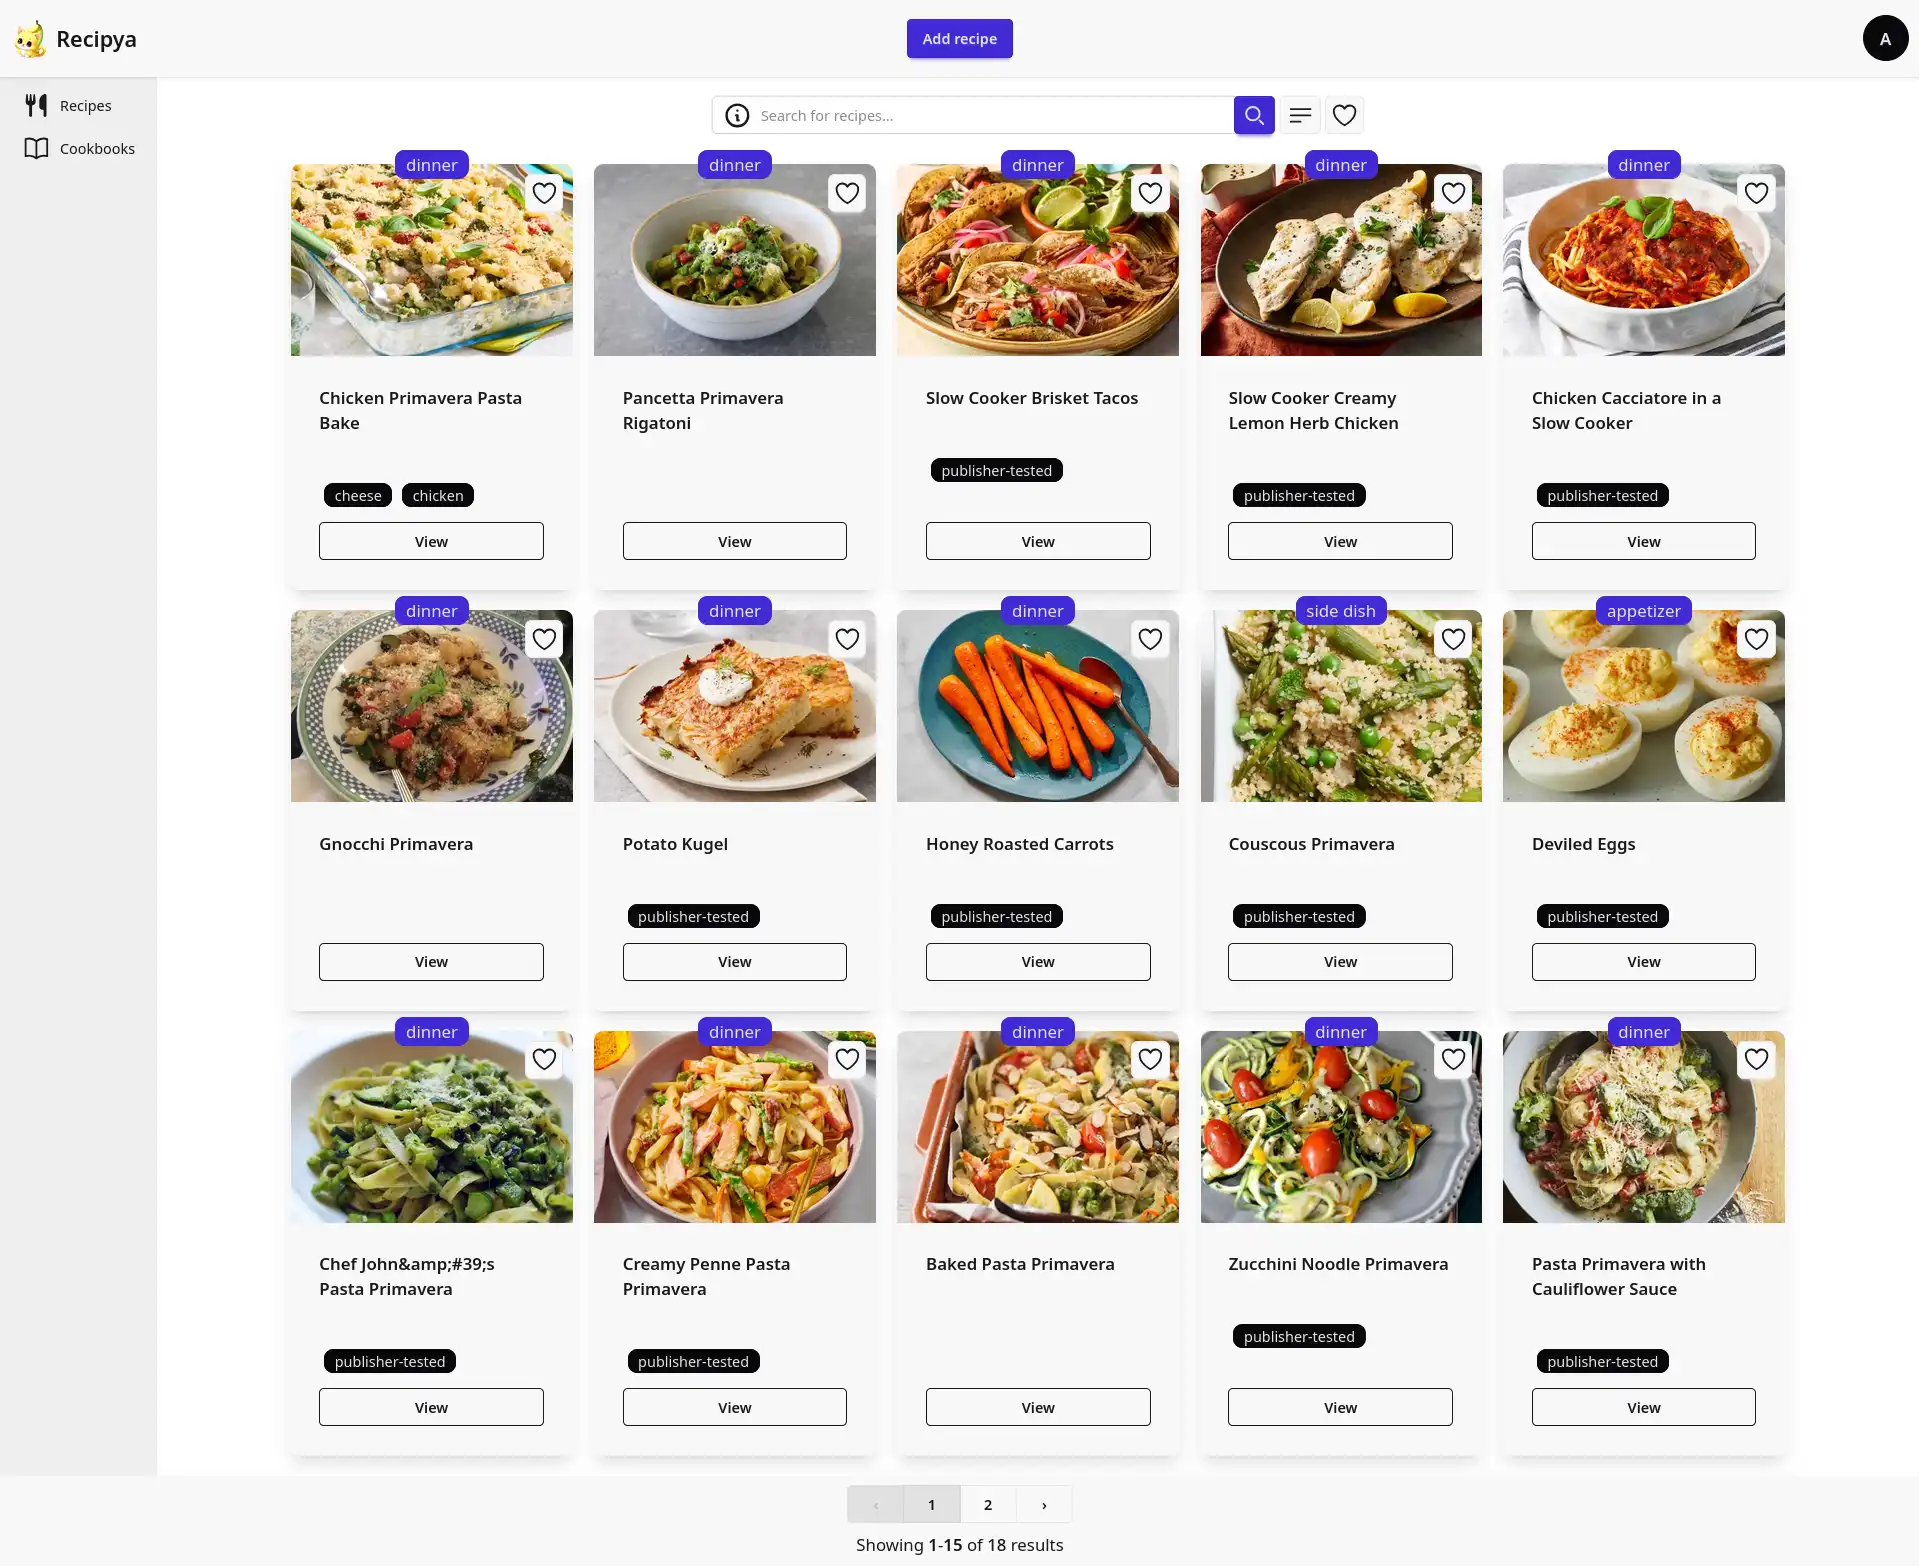
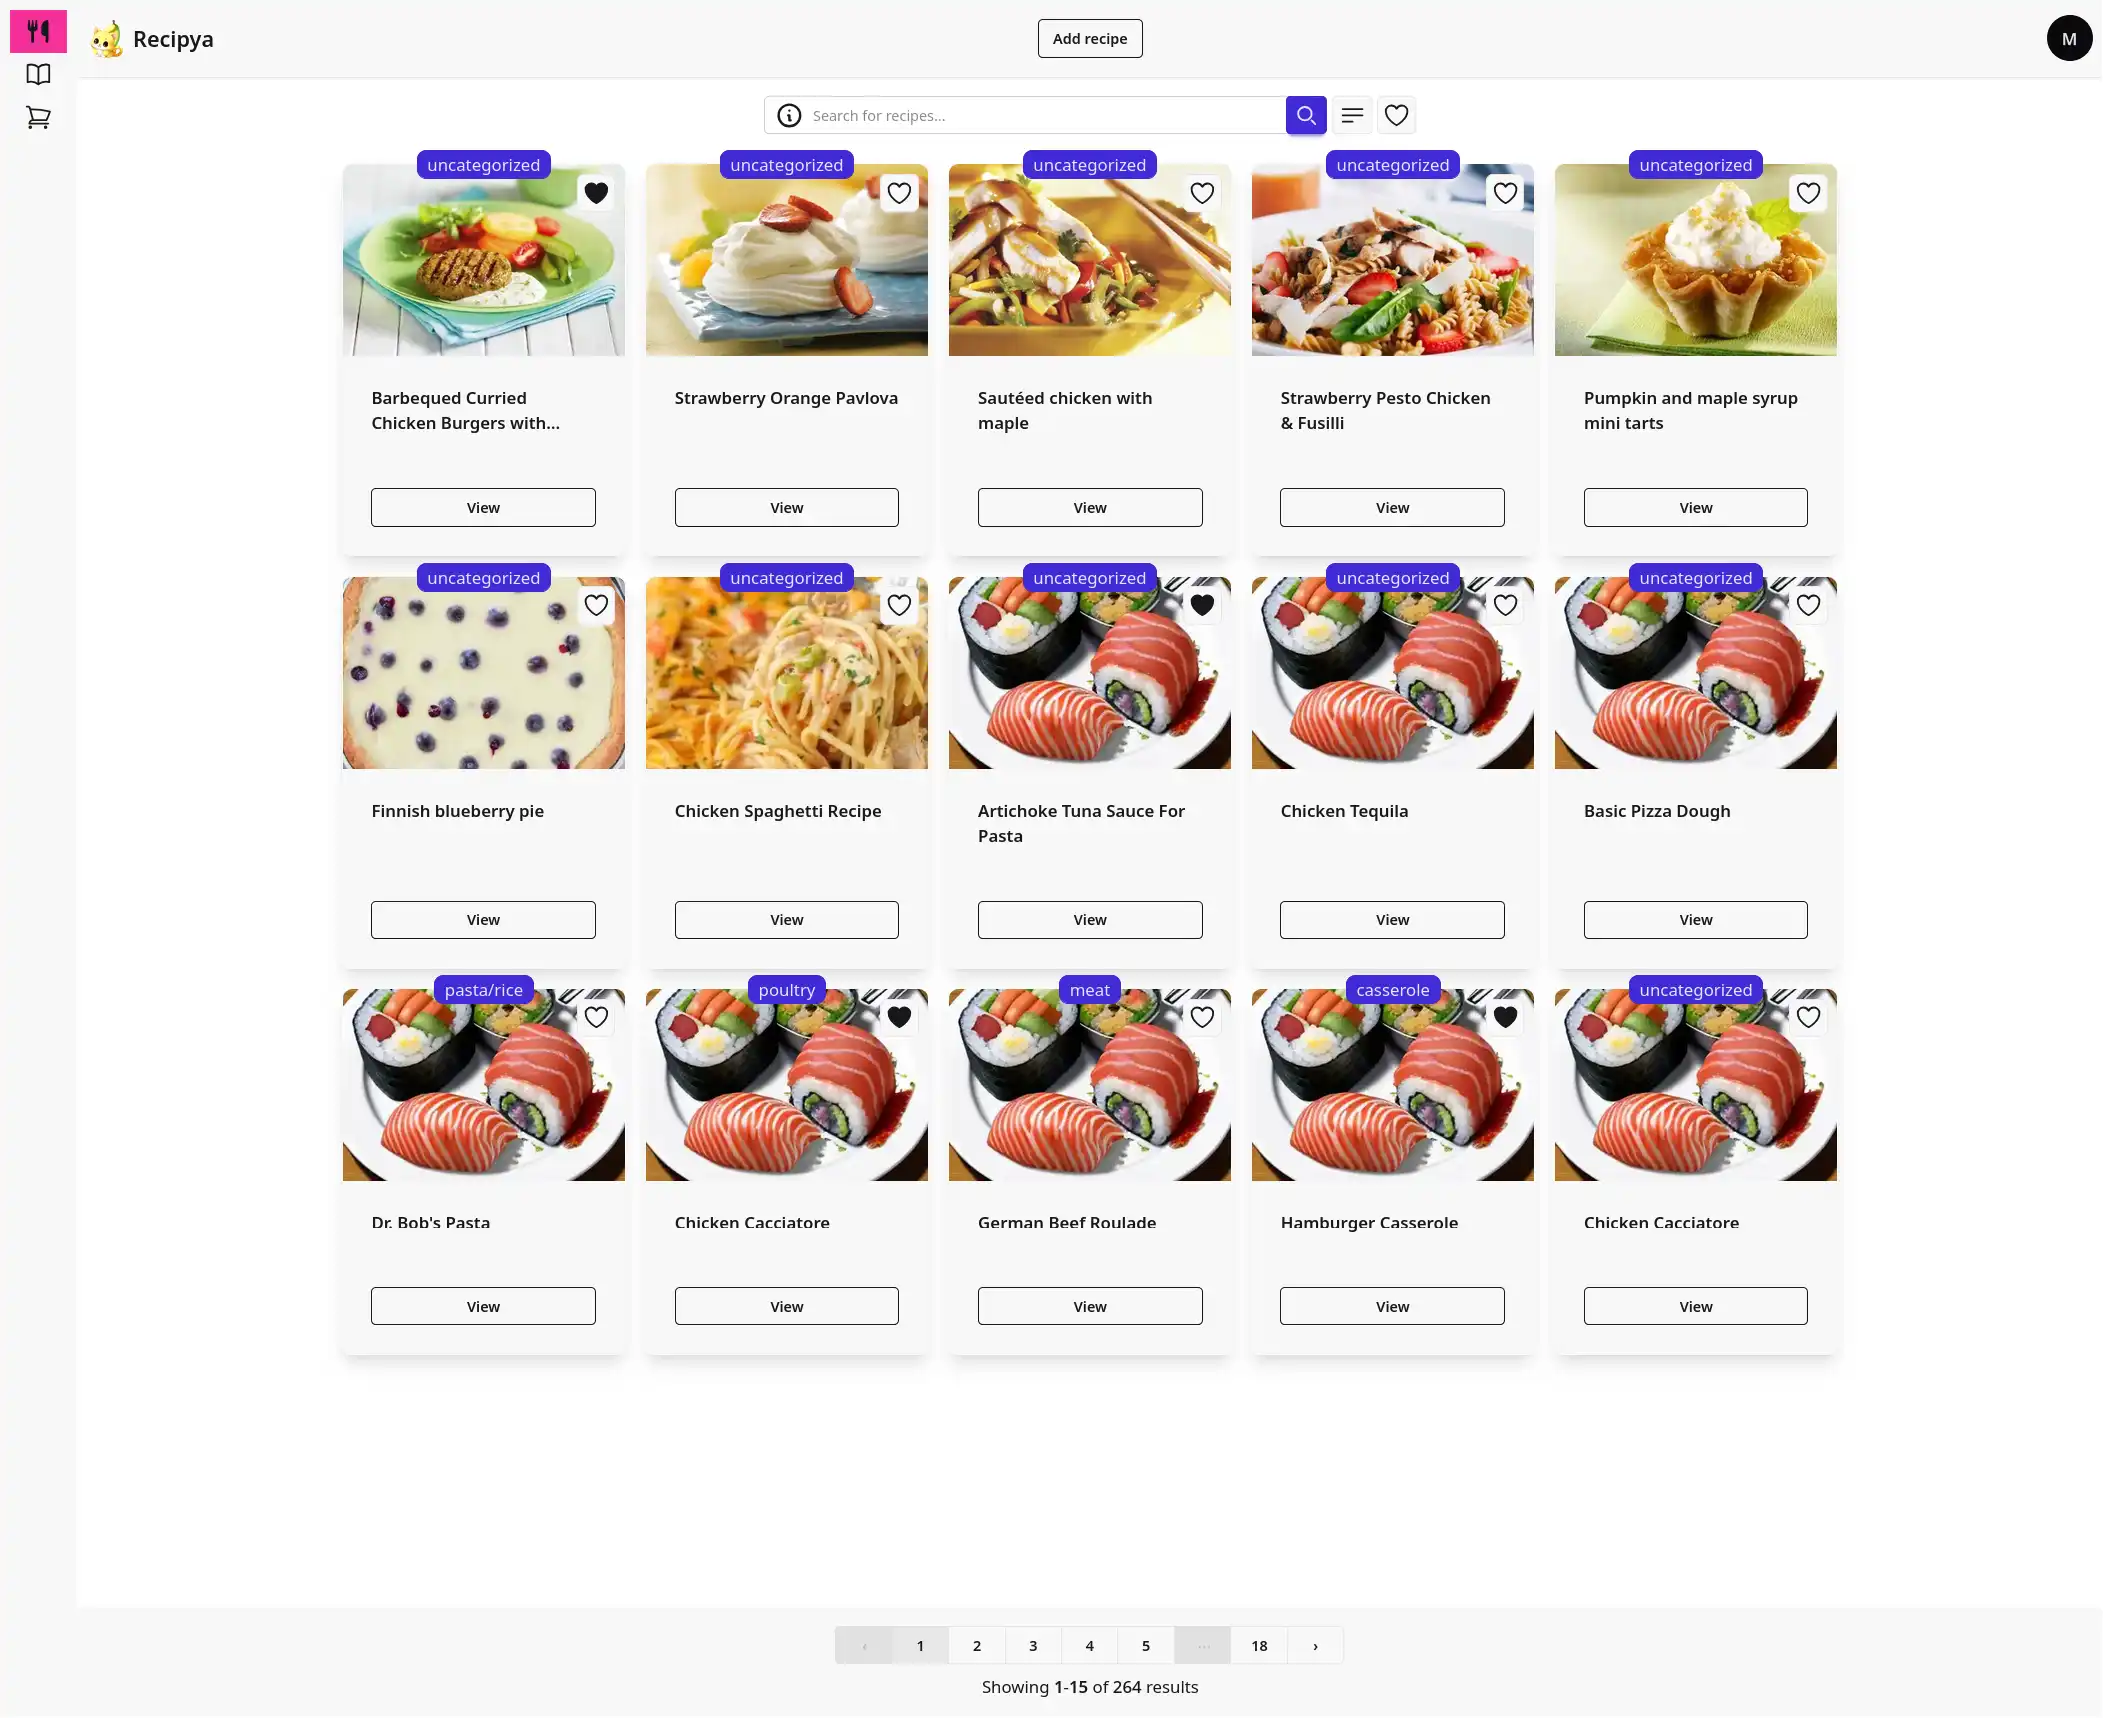
Add website scraping draft to README

diff --git a/README.md b/README.md
@@ -1,49 +1,52 @@
-<div align="center">
+<h1 align="center">
+  <br>
+      Recipya Rust
+  <br>
+</h1>
 
-# Recipya Rust &emsp;
+<h4 align="center">A clean, simple and powerful recipe manager your whole family will enjoy.</h4>
 
-**A clean, simple and powerful recipe manager your whole family will enjoy.**
+<p align="center">
+    <a href="https://github.com/reaper47/recipya-rs/releases/latest" target="_blank" rel="noopener noreferrer">
+        <img src="https://img.shields.io/github/v/release/reaper47/recipya-rs?style=flat&sort=semver">
+    </a>
+    <a href="https://github.com/reaper47/recipya-rs/actions/new" rel="noopener noreferrer">
+        <img src="https://img.shields.io/github/actions/workflow/status/serde-rs/serde/ci.yml?branch=master">
+    </a>
+    <a href="https://github.com/reaper47/recipya-rs/issues" rel="noopener noreferrer">
+        <img src="https://img.shields.io/badge/contributions-welcome-brightgreen.svg?style=flat" >
+    </a>
+</p>
 
-[![Demo][demo-shield]][demo-url]
-[![Documentation][docs-shield]][docs-url]
-[![Matrix][matrix-shield]][matrix-url]
-<br>
-[![][github-release-shield]][github-release-link]
-[![build-status-shield]][build-status-url]
-[![contributions-shield]][contributions-url]
-
-[build-status-shield]: https://img.shields.io/github/actions/workflow/status/serde-rs/serde/ci.yml?branch=master
-
-[build-status-url]: https://github.com/reaper47/recipya-rs/actions/new
-
-[contributions-shield]: https://img.shields.io/badge/contributions-welcome-brightgreen.svg?style=flat
-
-[contributions-url]: https://github.com/reaper47/recipya-rs/issues
-
-[demo-shield]: https://img.shields.io/badge/demo-996300?style=flat
-
-[demo-url]: https://recipes.musicavis.ca
-
-[docs-shield]: https://img.shields.io/badge/documentation-5d782e?style=flat
-
-[docs-url]: https://recipes.musicavis.ca/guide/docs/
-
-[matrix-shield]: https://img.shields.io/badge/Matrix-000000?style=flat&logo=matrix&logoColor=white
-
-[matrix-url]: https://app.element.io/#/room/%23comfyui_space%3Amatrix.org
-
-[github-release-shield]: https://img.shields.io/github/v/release/reaper47/recipya-rs?style=flat&sort=semver
-
-[github-release-link]: https://github.com/reaper47/recipya-rs/releases
+<p align="center">
+    <a href="https://recipes.musicavis.ca/guide/docs/" target="_blank" rel="noopener noreferrer">Website</a> •
+    <a href="https://recipya.ca" target="_blank" rel="noopener noreferrer">Demo</a> •
+    <a href="https://app.element.io/#/room/%23comfyui_space%3Amatrix.org" target="_blank" rel="noopener noreferrer">Matrix</a>
+</p>
 
 ![Recipe page screenshot](.github/screenshot-recipes.webp)
 
-</div>
+Table of Contents
+=================
 
-## Introduction
-
-A clean, simple and powerful recipe manager web application for unforgettable family recipes, empowering you to curate
-and share your favorite recipes. It is focused on simplicity for the whole family to enjoy.
+* [Important Note](#warning-important-note)
+* [Features](#features)
+* [Getting Started](#getting-started)
+* [Development](#development)
+  * [Linux](#linux)
+      * [Tooling](#tooling)
+      * [Running Recipya](#running-recipya)
+  * [Windows](#windows)
+      * [Tooling](#tooling-1)
+      * [Running Recipya](#running-recipya-1)
+  * [Development Container](#development-container)
+  * [Useful Commands](#useful-commands)
+      * [Frontend](#frontend)
+      * [Database](#database)
+* [Contributing](#contributing)
+  * [How to support/verify a website](#how-to-supportverify-a-website)
+* [Sponsors](#sponsors)
+* [Inspiration](#inspiration)
 
 ## :warning: Important Note 
 
@@ -173,6 +176,90 @@ at macpoule@gmail.com. The same applies if you have any feedback or need support
 You can also join our development and support channel on
 the [Matrix space: #recipya:matrix.org](https://app.element.io/#/room/#recipya:matrix.org).
 Matrix is similar to Discord but is open source.
+
+### How to support/verify a website
+
+1. Open the respective [registry file](https://github.com/reaper47/recipya-rs/tree/main/crates/recipya-scraper/data)
+2. Add the website's required metadata (name, domain, variant, url, test urls), and if applicable, the optional (cuisine)
+3. Save the file. A Rust file with the added website will be generated. Run `cargo build` if it does not generate.
+4. Open the website's respective [test file](https://github.com/reaper47/recipya-rs/tree/main/crates/recipya-scraper/src/tests)
+5. Add the test skeleton for the website:
+```rust
+#[test]
+#[tracing_test::traced_test]
+#[ignore = "Needs manual testing"]
+fn test_{website name}_ok() -> Result<()> {
+    let got = scrape(Website::{website name}, 0)?;
+
+    let expected = Recipe {
+        context: at_context(),
+        r#type: AtType::Recipe.to_opt(),
+        url: vec!["the website url from the registry".into()],
+        ..Default::default()
+    };
+    pretty_assertions::assert_eq!(got, expected);
+    Ok(())
+}
+```
+6. Run the test.
+   1. If you don't receive a `DomainNotImplemented` error, populate the `want` recipe from the test's output until the test goes green.
+   2. If you receive a `DomainNotImplemented` error, then:
+      1. Add the website to the [`pub fn parse_manually(&self, doc: &Html, url: &str) -> Result<Recipe>`](https://github.com/reaper47/recipya-rs/blob/main/crates/recipya-scraper/src/websites.rs) match statement.
+      2. Create a file to implement the parser in the [respective folder](https://github.com/reaper47/recipya-rs/tree/main/crates/recipya-scraper/src/custom).
+      3. Add the following skeleton:
+        
+        ```rust
+                use schema_org::{AtType, Recipe, at_context};
+                use scraper::{Html, Selector};
+                use crate::Result;
+        
+                pub fn parse(doc: &Html, url: &str) -> Result<Recipe> {
+                    let root = &doc.root_element();
+                    Ok(Recipe {
+                        r#type: AtType::Recipe.to_opt(),
+                        context: at_context(),
+                        url: vec![url.into()],
+                        ..Default::default()
+                    })
+                }
+        ```
+
+      4. Examine the recipe's HTML and add the missing fields. Refer to the other custom parsers for reference.
+   3. Make the test pass.
+
+For example, follow these steps to verify/support https://www.allrecipes.com:
+1. Open [websites-a.toml](https://github.com/reaper47/recipya-rs/blob/main/crates/recipya-scraper/data/websites-a.toml)
+2. Append the website's metadata:
+```text
+[[website]]
+name = "Allrecipes"
+domain = "allrecipes.com"
+variant = "AllRecipes"
+url = "https://www.allrecipes.com/"
+test = "https://www.allrecipes.com/recipe/10813/best-chocolate-chip-cookies/"
+```
+3. Save the file 
+4. Open [tests_scraper_a.rs](https://)github.com/reaper47/recipya-rs/blob/main/crates/recipya-scraper/src/tests/tests_scraper_a.rs)
+5. Add the following test:
+```rust
+#[test]
+#[tracing_test::traced_test]
+#[ignore = "Needs manual testing"]
+fn test_allrecipes_ok() -> Result<()> {
+    let got = scrape(Website::AllRecipes, 0)?;
+
+    let want = Recipe {
+        context: at_context(),
+        r#type: AtType::Recipe.to_opt(),
+        url: vec!["https://www.allrecipes.com/recipe/10813/best-chocolate-chip-cookies/".into()],
+        ..Default::default()
+    };
+    pretty_assertions::assert_eq!(got, want);
+    Ok(())
+}
+```
+6. Run the test. There is no DomainNotImplemented.
+  1. Copy paste the missing fields from the test's output to the test.
 
 ## Sponsors
 
